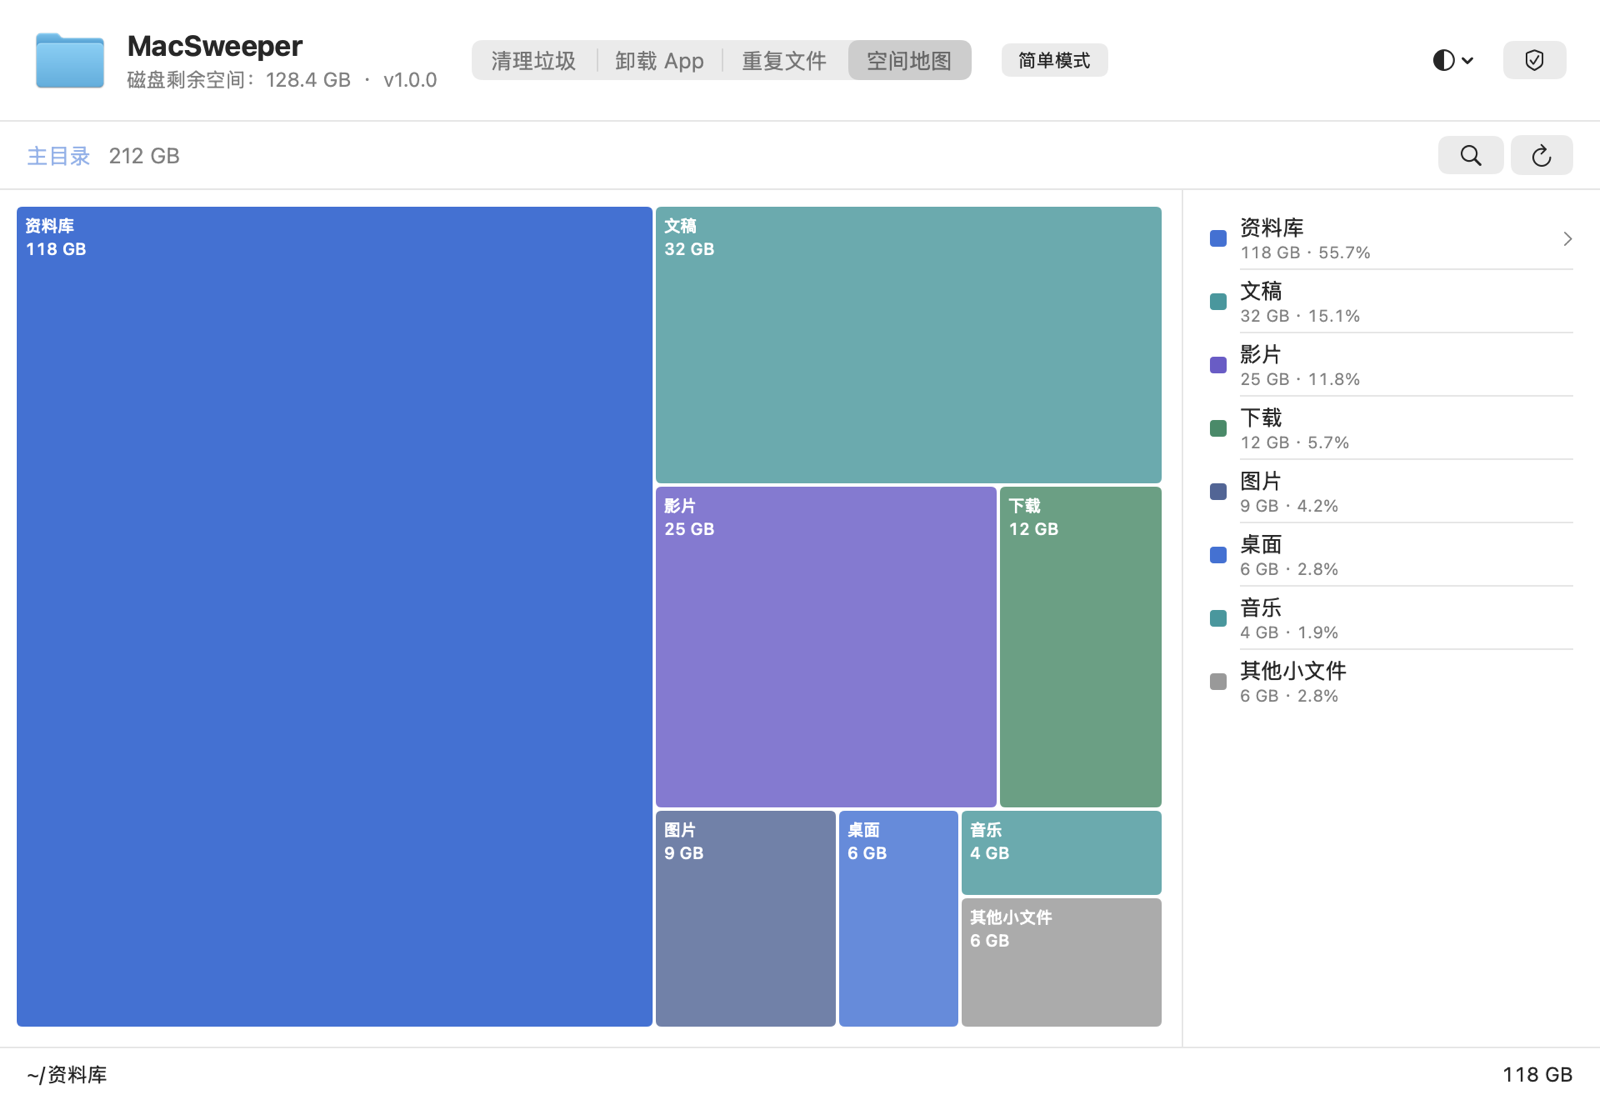
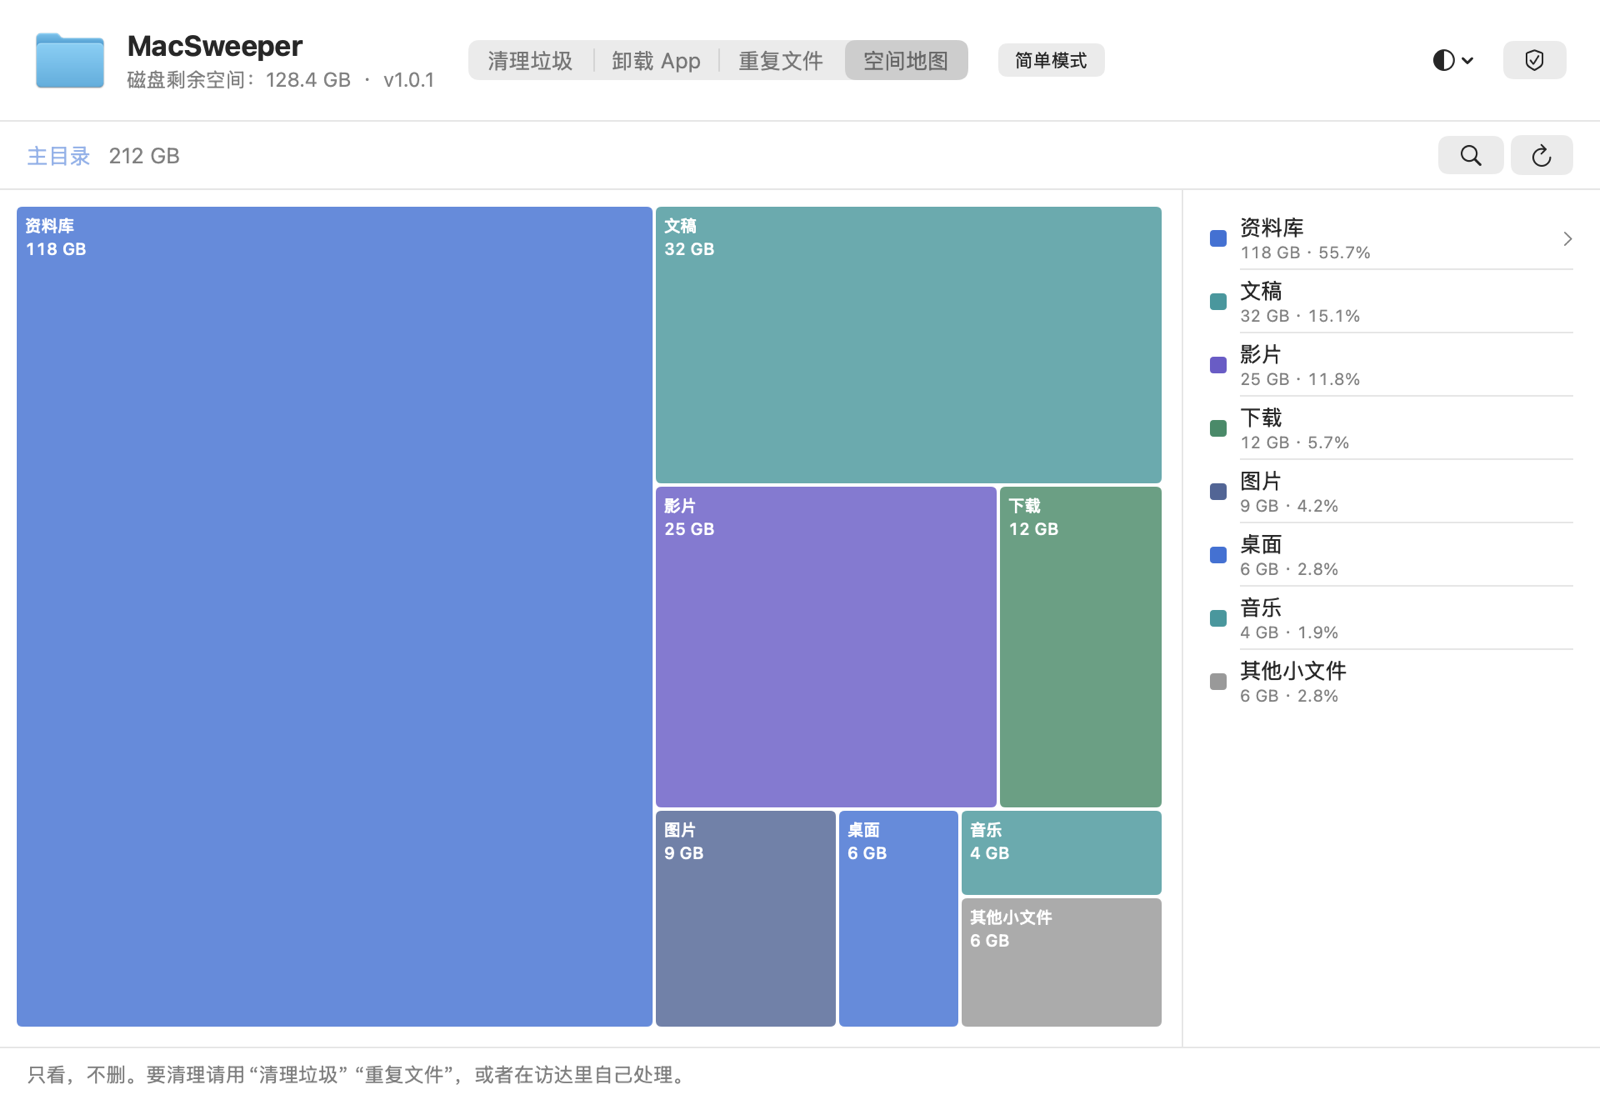
MacSweeper 1.0.1：可以发邮件反馈
- “反馈问题”改成菜单：发邮件给作者（不需要 GitHub 账号，主题和版本号已填好）、在 GitHub 上提、复制邮箱地址
- 安全说明页底部显示反馈邮箱 bianzigege2026@gmail.com
- README、宣传文案写上反馈邮箱；配图按新界面重新生成（演示数据）
- 翻译 447 句

diff --git a/Sources/MacSweeper/Components.swift b/Sources/MacSweeper/Components.swift
@@ -232,23 +232,60 @@ struct PermissionHint: View {
     }
 }
 
-/// “反馈问题”：打开 GitHub 的反馈页面，自动带上版本号和系统版本。不带任何文件路径
+/// “反馈问题”：发邮件，或者在 GitHub 上提。都会自动带上版本号和系统版本，不带任何文件路径
 @MainActor
 enum Feedback {
     static let repo = "https://github.com/bianzigege/MacSweeper"
+    /// 作者公开的反馈邮箱，没有 GitHub 账号的人用它
+    static let email = "bianzigege2026@gmail.com"
 
-    static func open() {
+    /// 反馈模板：遇到什么问题、怎么出现的、版本号。GitHub 上用加粗标题，邮件里用普通文字
+    private static func template(markdown: Bool) -> String {
         let os = ProcessInfo.processInfo.operatingSystemVersion
         let system = "\(os.majorVersion).\(os.minorVersion).\(os.patchVersion)"
-        let body = [
-            L("**遇到了什么问题？**"), "", "",
-            L("**怎么出现的？**（在哪个页面、点了什么）"), "", "",
+        return [
+            markdown ? L("**遇到了什么问题？**") : L("遇到了什么问题？"), "", "",
+            markdown ? L("**怎么出现的？**（在哪个页面、点了什么）") : L("怎么出现的？（在哪个页面、点了什么）"), "", "",
             "---",
             L("MacSweeper %@ · macOS %@", UpdateChecker.current, system),
             L("请不要贴出带你名字的文件路径或截图。"),
         ].joined(separator: "\n")
-        var c = URLComponents(string: repo + "/issues/new")!
-        c.queryItems = [URLQueryItem(name: "body", value: body)]
+    }
+
+    /// 用“邮件”App 写一封给作者的信，主题和模板已经填好
+    static func openMail() {
+        var c = URLComponents()
+        c.scheme = "mailto"
+        c.path = email
+        c.queryItems = [URLQueryItem(name: "subject", value: L("MacSweeper 反馈")),
+                        URLQueryItem(name: "body", value: template(markdown: false))]
         if let url = c.url { NSWorkspace.shared.open(url) }
+    }
+
+    /// 打开 GitHub 的反馈页面（需要 GitHub 账号）
+    static func openGitHub() {
+        var c = URLComponents(string: repo + "/issues/new")!
+        c.queryItems = [URLQueryItem(name: "body", value: template(markdown: true))]
+        if let url = c.url { NSWorkspace.shared.open(url) }
+    }
+
+    /// 没设置“邮件”App 的人，复制地址去自己常用的邮箱发
+    static func copyEmail() {
+        NSPasteboard.general.clearContents()
+        NSPasteboard.general.setString(email, forType: .string)
+    }
+}
+
+/// “反馈问题”按钮：点开选发邮件、在 GitHub 上提，或者复制邮箱地址
+struct FeedbackMenu: View {
+    var body: some View {
+        Menu(L("反馈问题")) {
+            Button(L("发邮件给作者")) { Feedback.openMail() }
+            Button(L("在 GitHub 上提（需要账号）")) { Feedback.openGitHub() }
+            Divider()
+            Button(L("复制邮箱地址：%@", Feedback.email)) { Feedback.copyEmail() }
+        }
+        .fixedSize()
+        .help(L("会自动带上版本号和系统版本，不带任何文件路径"))
     }
 }

diff --git a/Sources/MacSweeper/SafetyView.swift b/Sources/MacSweeper/SafetyView.swift
@@ -46,10 +46,10 @@ struct SafetyView: View {
             HStack {
                 Toggle(L("每天检查一次有没有新版本"), isOn: $checkForUpdates)
                 Spacer()
-                Button(L("反馈问题")) { Feedback.open() }
-                    .help(L("打开 GitHub 的反馈页面，会自动带上版本号，不带任何文件路径"))
+                FeedbackMenu()
             }
-            Text(L("MacSweeper %@", UpdateChecker.current)).font(.caption).foregroundStyle(.tertiary)
+            Text(L("MacSweeper %@ · 反馈邮箱：%@", UpdateChecker.current, Feedback.email))
+                .font(.caption).foregroundStyle(.tertiary).textSelection(.enabled)
         }
         .padding(24)
         .frame(width: 560)

diff --git a/Sources/MacSweeper/SimpleView.swift b/Sources/MacSweeper/SimpleView.swift
@@ -136,8 +136,7 @@ struct SimpleView: View {
             Text(L("简单模式只清理缓存和日志。想看明细、卸载 App、找重复文件，用详细模式。"))
                 .font(.caption).foregroundStyle(.secondary)
             Spacer()
-            Button(L("反馈问题")) { Feedback.open() }
-                .help(L("打开 GitHub 的反馈页面，会自动带上版本号，不带任何文件路径"))
+            FeedbackMenu()
             Button(L("详细模式")) { mode = .detailed }
         }
         .padding(.horizontal, 20).padding(.vertical, 12)

diff --git a/scripts/translations.py b/scripts/translations.py
@@ -523,7 +523,6 @@ EN = {
     "只检查缓存和日志，不看你的桌面、文稿和下载。macOS 可能会问能不能访问其他 App 的数据，这是为了找微信、飞书这些 App 里的缓存。点“允许”就行；不允许也没关系，那部分会跳过。":
         "Only caches and logs are checked; your Desktop, Documents and Downloads are not looked at. macOS may ask whether MacSweeper can access data from other apps. That's to find caches inside apps like WeChat and Feishu. Click “Allow”; if you don't, that part is simply skipped.",
     "在 iCloud 里：移到废纸篓后，你所有设备上都会消失": "In iCloud: moving it to the Trash removes it from all your devices",
-    "打开 GitHub 的反馈页面，会自动带上版本号，不带任何文件路径": "Opens the GitHub feedback page with the version filled in. No file paths are included",
     "正在清理 %@ 的缓存…": "Cleaning %@'s caches…",
     "每天检查一次有没有新版本": "Check for a new version once a day",
     "详细模式要找大文件和安装包，macOS 可能会问能不能访问桌面、文稿、下载。点“允许”就行；不允许也可以，那几项会跳过。":
@@ -535,6 +534,16 @@ EN = {
     "不收集、不上传任何东西": "Nothing is collected or uploaded",
     "除了每天去 GitHub 查一次有没有新版本，不联网。你的文件、清单、使用情况都不会离开这台电脑。检查更新可以在下面关掉":
         "Apart from checking GitHub once a day for a new version, MacSweeper never goes online. Your files, lists and usage never leave this Mac. You can turn off update checks below",
+
+    # —— 1.0.1：邮件反馈 ——
+    "MacSweeper 反馈": "MacSweeper feedback",
+    "遇到了什么问题？": "What went wrong?",
+    "怎么出现的？（在哪个页面、点了什么）": "How did it happen? (which page, what you clicked)",
+    "发邮件给作者": "Email the Author",
+    "在 GitHub 上提（需要账号）": "Report on GitHub (account needed)",
+    "复制邮箱地址：%@": "Copy Email Address: %@",
+    "会自动带上版本号和系统版本，不带任何文件路径": "The app and macOS versions are filled in. No file paths are included",
+    "MacSweeper %@ · 反馈邮箱：%@": "MacSweeper %@ · Feedback: %@",
 
     # —— 外观 ——
     "外观": "Appearance",

diff --git a/README.en.md b/README.en.md
@@ -49,7 +49,11 @@ Every release lists the DMG's SHA-256 checksum. To verify a download, run `shasu
 
 ## Problems?
 
-Click **Report a Problem** in the app (bottom right of Simple mode, or on the Safety page). It opens the GitHub feedback page with the app and macOS versions filled in, and no file paths. You can also open an [issue](../../issues) directly.
+Click **Report a Problem** in the app (bottom right of Simple mode, or on the Safety page) and choose:
+- **Email the Author**: no GitHub account needed; opens Mail with the subject and versions filled in
+- **Report on GitHub**: needs a GitHub account; you can also open an [issue](../../issues) directly
+
+Or write to **[bianzigege2026@gmail.com](mailto:bianzigege2026@gmail.com)**. Feedback only includes the app and macOS versions, never file paths.
 
 ## Safety
 
@@ -68,7 +72,7 @@ Click **Report a Problem** in the app (bottom right of Simple mode, or on the Sa
 
 - The only network access is a daily check of the latest version number on GitHub (no automatic downloads). Turn it off on the Safety page and MacSweeper never goes online
 - No usage data is collected and nothing is uploaded; all scanning happens on your Mac
-- “Report a Problem” only includes the app and macOS versions, and you submit it yourself on GitHub
+- “Report a Problem” only includes the app and macOS versions, and you send it yourself (email or GitHub)
 
 ## Build from source
 

diff --git a/README.md b/README.md
@@ -55,7 +55,11 @@
 
 ## 遇到问题
 
-点 App 里的**“反馈问题”**（简单模式右下角，或“安全说明”页），会打开 GitHub 的反馈页面，自动带上版本号和系统版本，不带任何文件路径。也可以直接在 [Issues](../../issues) 里提。
+点 App 里的**“反馈问题”**（简单模式右下角，或“安全说明”页），可以选：
+- **发邮件给作者**：不需要 GitHub 账号，会打开“邮件”App，主题和版本号都填好了
+- **在 GitHub 上提**：需要 GitHub 账号，也可以直接在 [Issues](../../issues) 里提
+
+也可以直接写信到 **[bianzigege2026@gmail.com](mailto:bianzigege2026@gmail.com)**。反馈里只带 App 版本和系统版本，不带任何文件路径；截图前请挡住带你名字的地方。
 
 ## 从源码编译
 
@@ -222,7 +226,7 @@ swift build -c release
 
 - 唯一的联网：每天去 GitHub 查一次最新版本号（只查版本号，不自动下载）。在“安全说明”页可以关掉，关掉后完全不联网
 - 不收集使用数据，不上传文件、清单或任何信息；所有扫描都在你自己的电脑上完成
-- “反馈问题”只带 App 版本和系统版本，由你自己在 GitHub 上提交
+- “反馈问题”只带 App 版本和系统版本，由你自己发出（邮件或 GitHub）
 
 ## 代码结构
 

diff --git a/docs/宣传文案.md b/docs/宣传文案.md
@@ -96,7 +96,7 @@
 
 ![两种模式](宣传配图/海报-两种模式.png)
 
-免费，开源（MIT），支持 Apple 芯片和 Intel，macOS 13 以上。用着有问题，点 App 里的"反馈问题"就行。
+免费，开源（MIT），支持 Apple 芯片和 Intel，macOS 13 以上。用着有问题，点 App 里的"反馈问题"，或者直接写信到 bianzigege2026@gmail.com。
 
 下载：https://github.com/bianzigege/MacSweeper/releases
 
